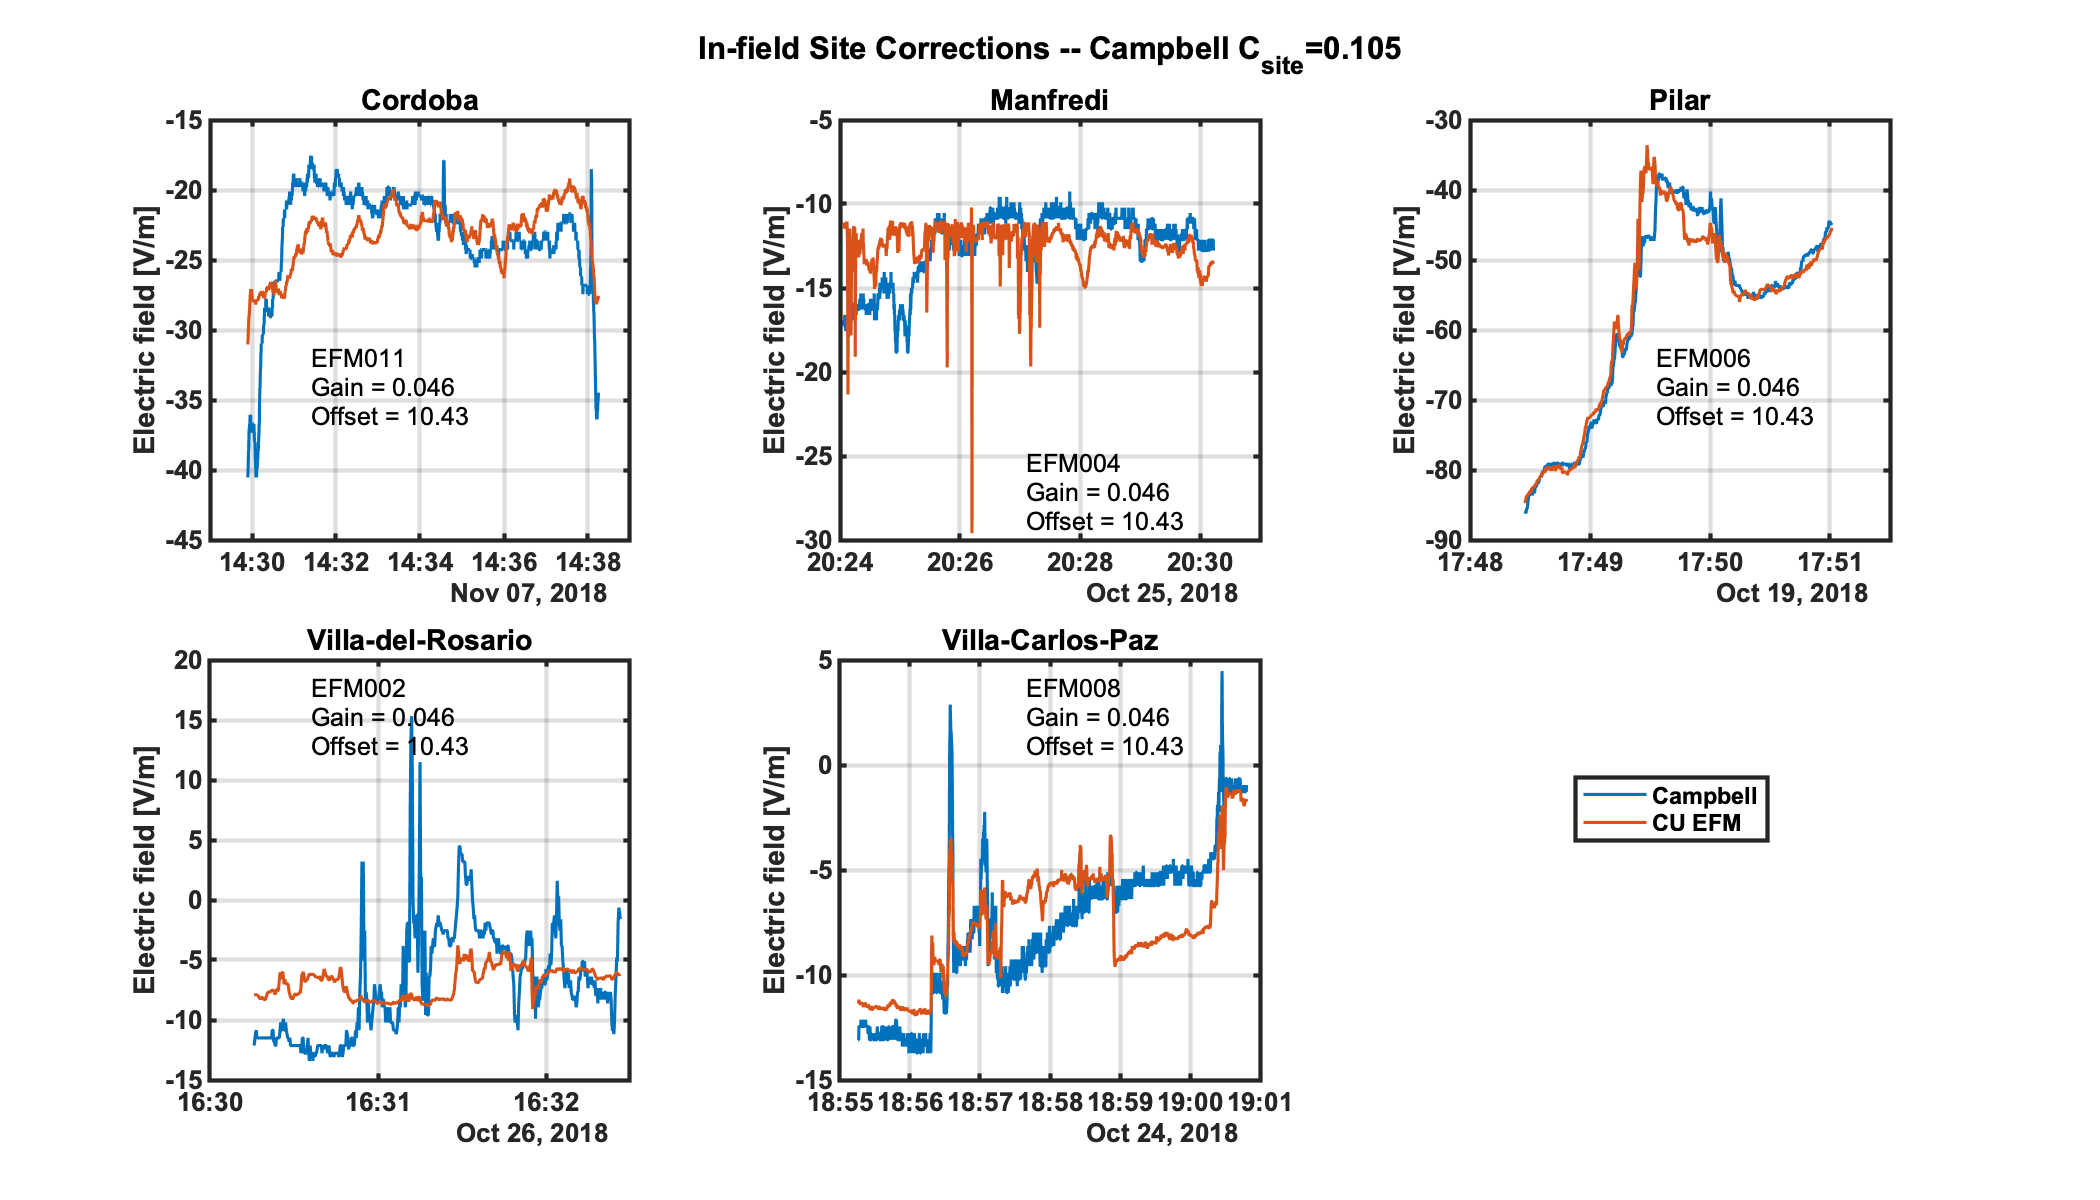
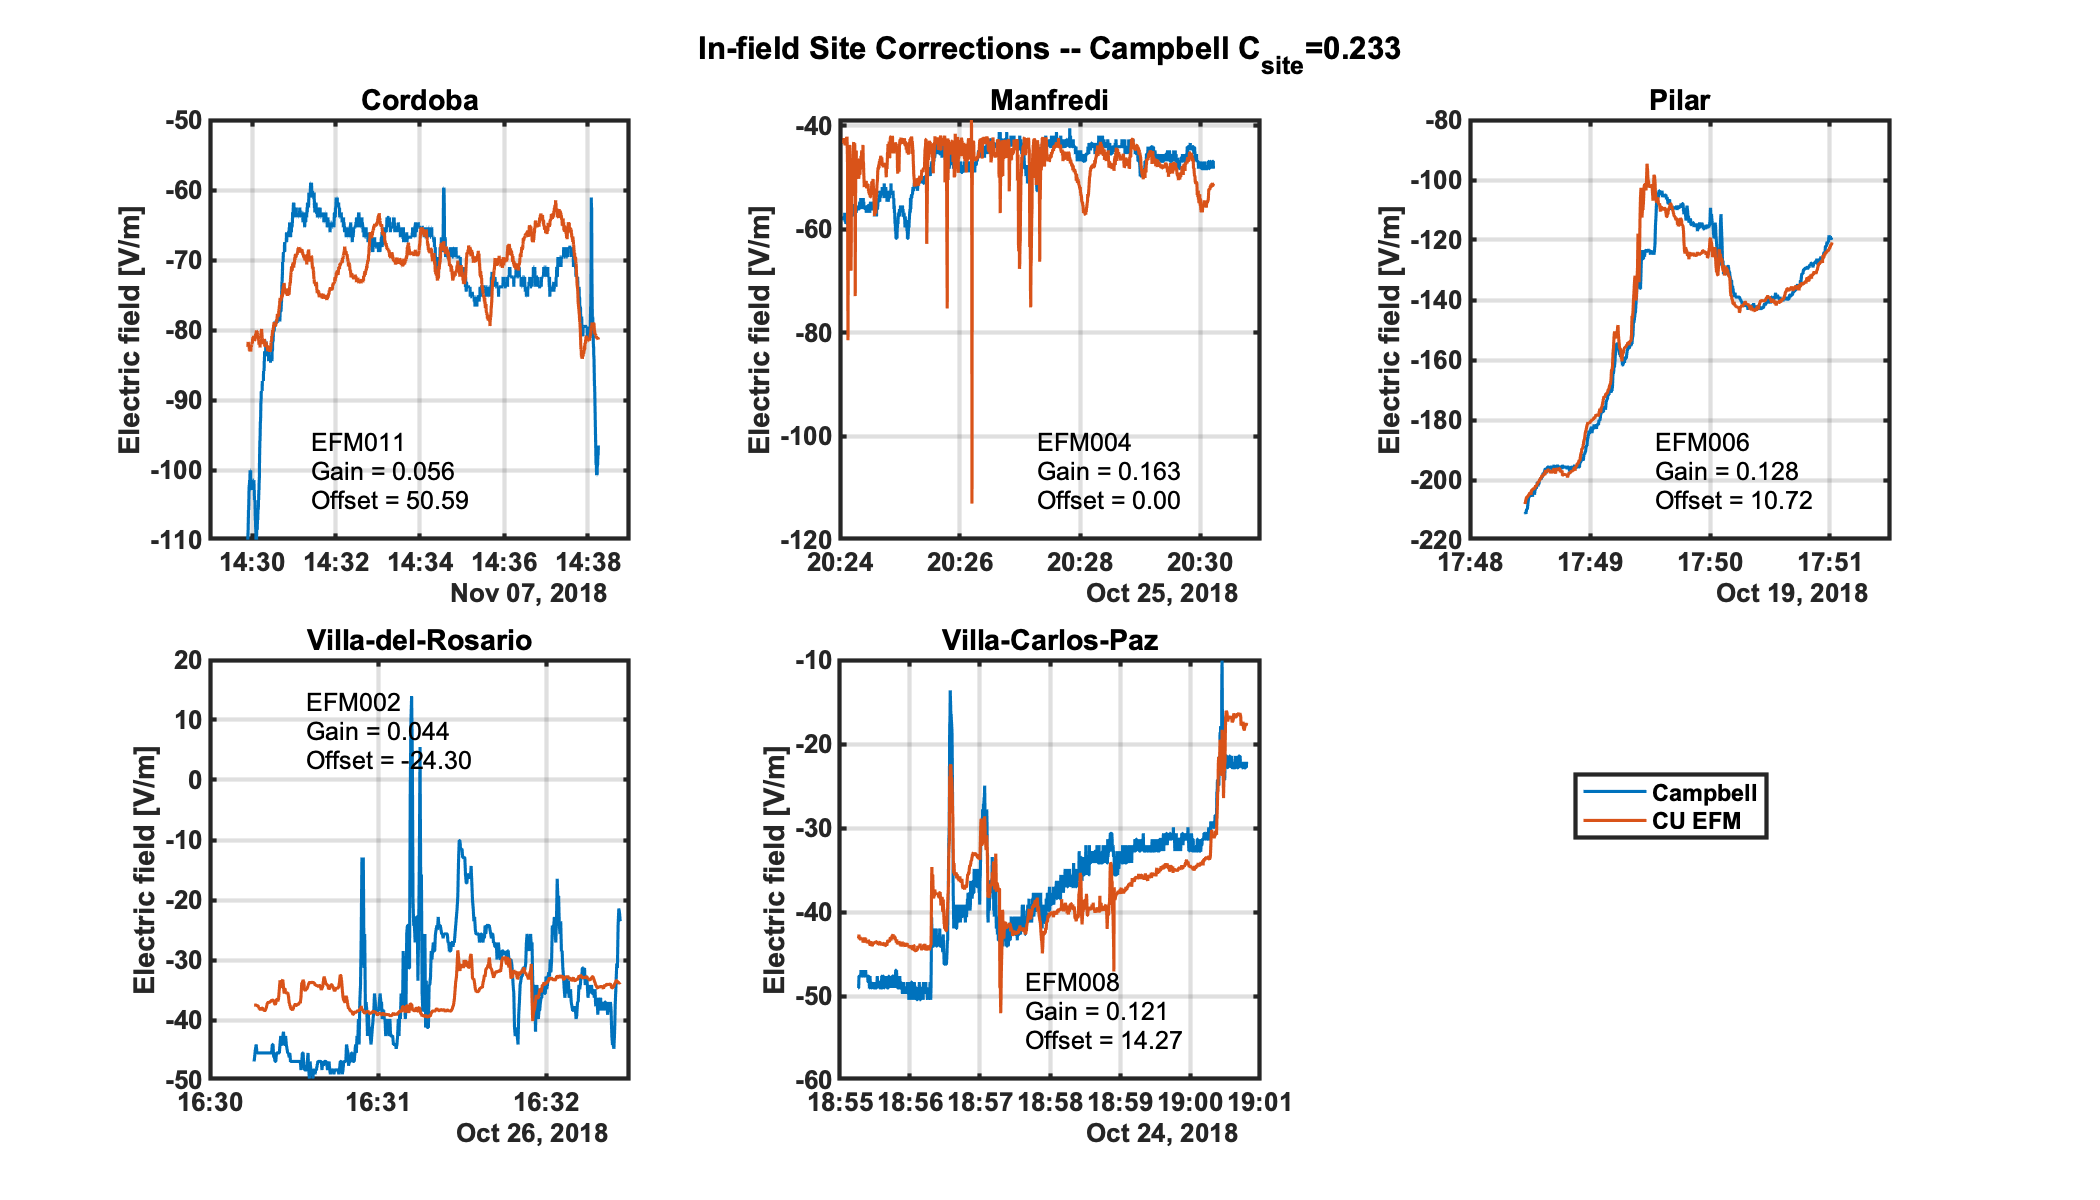
added max_error parameter based off NaNs

diff --git a/save_as_netCDF.m b/save_as_netCDF.m
@@ -1,29 +1,71 @@
 close all; clear all;
-data_dir = "/Volumes/Untitled/EFM before office move/RELAMPAGO Data/Level 1/Without Site Corrections v2";
-out_dir = "/Volumes/Untitled/EFM before office move/RELAMPAGO Data/Level 1/netCDF";
+data_dir = "/Volumes/EFM External/EFM before office move/RELAMPAGO Data/Level 1/Without Site Corrections v2";
+out_dir = "/Volumes/EFM External/EFM before office move/RELAMPAGO Data/Level 1/netCDF";
 
 sites = ["Cordoba","Manfredi","Pilar", "Villa-del-Rosario","Villa-Carlos-Paz"];
 % sites = ["Cordoba"];
 
 % Site calibrations:
+% site_gains = containers.Map;
+% site_offsets = containers.Map;
+% site_gains("Cordoba") = 0.0222;           site_offsets("Cordoba") = 25.3092;
+% site_gains("Manfredi") = 0.0427;          site_offsets("Manfredi") = 0;
+% site_gains("Pilar") = 0.0576;             site_offsets("Pilar") = 13.8439;
+% site_gains("Villa-Carlos-Paz") = 0.0458;  site_offsets("Villa-Carlos-Paz") = 10.4258;
+% site_gains("Villa-del-Rosario") = 0.0200; site_offsets("Villa-del-Rosario") = -1.9374;
+
+% Site calibrations: July 19th, 2019:
+% These site calibrations use a Campbell Csite correction of 0.233.
+%  -- Cordoba, Pilar, and Villa Carlos Paz are computed using Campbell field data
+%  -- Villa Del Rosario uses the site correction computed in Colorado
+%  (backyard test), since the VDR in-field data is from a low-activity day
+%  -- Manfredi's gain is the average of the site gains and backyard gains for
+%  Pilar and Villa Carlos Paz, since the in-field data is from a
+%  low-activity day, and lacks polarity information.
+%  -- Manfredi's offset is the mean offset from Cordoba, Pilar, VCP, and VDR.
+%  -- Cordoba is lower gain than the other sites; this is believable,
+%  though, as the EFM was on the roof of a building, and the corresponding
+%  Campbell on the ground.
 site_gains = containers.Map;
 site_offsets = containers.Map;
-site_gains("Cordoba") = 0.0222;           site_offsets("Cordoba") = 25.3092;
-site_gains("Manfredi") = 0.0427;          site_offsets("Manfredi") = 0;
-site_gains("Pilar") = 0.0576;             site_offsets("Pilar") = 13.8439;
-site_gains("Villa-Carlos-Paz") = 0.0458;  site_offsets("Villa-Carlos-Paz") = 10.4258;
-site_gains("Villa-del-Rosario") = 0.0200; site_offsets("Villa-del-Rosario") = -1.9374;
+site_gains("Cordoba") = 0.0559;           site_offsets("Cordoba") = 50.5869;
+site_gains("Manfredi") = 0.1177;          site_offsets("Manfredi") = 12.5;
+site_gains("Pilar") = 0.1277;             site_offsets("Pilar") = 10.7203;
+site_gains("Villa-Carlos-Paz") = 0.1207;  site_offsets("Villa-Carlos-Paz") = 14.2689;
+site_gains("Villa-del-Rosario") = 0.0993; site_offsets("Villa-del-Rosario") = -24.2991;
+% site_gains("Villa-del-Rosario") = 0.0446; site_offsets("Villa-del-Rosario") = -24.2991;
+% Manfredi gain: ((backyard_gains(EFMs("Villa-Carlos-Paz")) + backyard_gains(EFMs("Pilar")))*Csite + site_gains("Villa-Carlos-Paz") + site_gains("Pilar"))/4
+
+site_lats = containers.Map;
+site_lons = containers.Map;
+site_lats("Cordoba") = -31.43847455;            site_lons("Cordoba") = -64.19298165;
+site_lats("Manfredi") = -31.85712639;           site_lons("Manfredi") = -63.74865947;
+site_lats("Pilar") = -31.66715781;              site_lons("Pilar") = -63.8826809;
+site_lats("Villa-Carlos-Paz") = -31.47527066;   site_lons("Villa-Carlos-Paz") = -64.52608896;
+site_lats("Villa-del-Rosario") = -31.55880245;  site_lons("Villa-del-Rosario") = -63.5655458;
+
+site_fw = containers.Map;
+site_fw("Cordoba") = 1.2; % THIS ONE WORKS SO MUCH BETTER, IS IT ~1.3+?
+site_fw("Manfredi") = 1.2;
+site_fw("Pilar") = 1.1;
+site_fw("Villa-Carlos-Paz") = 1.2;
+site_fw("Villa-del-Rosario") = 1.2;
+
 
 start_date = datetime(2018,10,28,0,0,0);
 end_date   = datetime(2018,12,20,1,0,0);
+% start_date = datetime(2018,11,28,0,0,0);
+% end_date   = datetime(2018,12,5,0,0,0);
 
+error_hists = containers.Map();
 files_to_do = start_date +  hours(0:hours(end_date - start_date));
 
 fprintf("doing %d sites\ndoing %d hours\n",length(sites), length(files_to_do));
 for s=1:length(sites)
     site = sites(s);
     fprintf("Loading %s\n",site);
-    tmp_avg = nan(length(files_to_do),1);
+    error_hists(site) = [];
+%     tmp_avg = nan(length(files_to_do),1);
     for ft=1:length(files_to_do)
         dvec = datevec(files_to_do(ft));
         indir = fullfile(data_dir,site,sprintf('%d',dvec(1)),sprintf('%d',dvec(2)), sprintf('%d',dvec(3)));
@@ -65,8 +107,26 @@ for s=1:length(sites)
             ncwriteatt(outfile,'E_field','site_gain',site_gains(site));
             ncwriteatt(outfile,'E_field','site_offset',site_offsets(site));
             ncwriteatt(outfile,'E_field','units','V/m');
+            
+            % Put in: Geo coordinates (lat / lon)
+            ncwriteatt(outfile,'/','latitude',site_lats(site));
+            ncwriteatt(outfile,'/','longitude',site_lons(site));
+            
+            %         Firmware version?
+            ncwriteatt(outfile,'/','firmware_version',site_fw(site));
             % ncdisp(outfile)
-
+            
+            % Timing error: Sum the NaNs, and divide by 2 (since we
+            % recorrect ourselves every 30 minutes)
+            total_nans = sum(isnan(data.E_field_calib));
+            max_timing_error = total_nans/data.SAMPLE_RATE/2.0;
+            fprintf('max timing error %g seconds\n',max_timing_error);
+            ncwriteatt(outfile,'E_field','max_timing_error',max_timing_error);
+            
+%             figure;
+%             plot(isnan(data.E_field_calib));
+            
+            error_hists(site) = [error_hists(site), max_timing_error];
         end
     end
     

diff --git a/compare_site_corrections_vs_backyard_test.m b/compare_site_corrections_vs_backyard_test.m
@@ -7,22 +7,38 @@ EFMs("Pilar") = "EFM006";
 EFMs("Villa-del-Rosario") = "EFM002";
 EFMs("Villa-Carlos-Paz") = "EFM008";
 
-% Just typed in from running between 6/18 - 6/24.
-% EFM006 used absolute field values, everything else normal.
+% % Just typed in from running between 6/18 - 6/24.
+% % EFM006 used absolute field values, everything else normal.
 backyard_gains = containers.Map;
 backyard_offsets = containers.Map;
-backyard_gains("EFM002") = 0.0436; backyard_offsets("EFM002") = -0.9096;
-backyard_gains("EFM006") = 0.0407; backyard_offsets("EFM006") = 18.7037;
-backyard_gains("EFM008") = 0.0586; backyard_offsets("EFM008") = 14.7467;
-backyard_gains("EFM011") = 0.1062; backyard_offsets("EFM011") = 83.8318;
+% backyard_gains("EFM002") = 0.0436; backyard_offsets("EFM002") = -0.9096;
+% backyard_gains("EFM006") = 0.0407; backyard_offsets("EFM006") = 18.7037;
+% backyard_gains("EFM008") = 0.0586; backyard_offsets("EFM008") = 14.7467;
+% backyard_gains("EFM011") = 0.1062; backyard_offsets("EFM011") = 83.8318;
+
+% These are with Csite = 1.0: e.g., to match backyard data to the campbell
+% at the setup height, but not to map to the true electric field (dependent
+% on Campbell correction)
+backyard_gains("EFM002") = 0.4262; backyard_offsets("EFM002") = -5.7975;
+backyard_gains("EFM006") = 0.3915; backyard_offsets("EFM006") = 177.1194;
+backyard_gains("EFM008") = 0.5625; backyard_offsets("EFM008") = 142.4066;
+backyard_gains("EFM011") = 1.0117; backyard_offsets("EFM011") = 798.3978;
+Csite = 0.233;  % Taken from Austin's backyard test data, 7/18/2019
 
 site_gains = containers.Map;
 site_offsets = containers.Map;
-site_gains("Cordoba") = 0.0222;           site_offsets("Cordoba") = 25.3092;
-site_gains("Manfredi") = 0.0427;          site_offsets("Manfredi") = 0;
-site_gains("Pilar") = 0.0576;             site_offsets("Pilar") = 13.8439;
-site_gains("Villa-Carlos-Paz") = 0.0458;  site_offsets("Villa-Carlos-Paz") = 10.4258;
-site_gains("Villa-del-Rosario") = 0.0200; site_offsets("Villa-del-Rosario") = -1.9374;
+% site_gains("Cordoba") = 0.0222;           site_offsets("Cordoba") = 25.3092;
+% site_gains("Manfredi") = 0.0427;          site_offsets("Manfredi") = 0;
+% site_gains("Pilar") = 0.0576;             site_offsets("Pilar") = 13.8439;
+% site_gains("Villa-Carlos-Paz") = 0.0458;  site_offsets("Villa-Carlos-Paz") = 10.4258;
+% site_gains("Villa-del-Rosario") = 0.0200; site_offsets("Villa-del-Rosario") = -1.9374;
+
+% These are computed using Argentina field calibrations, with Csite=0.233
+site_gains("Cordoba") = 0.0559;           site_offsets("Cordoba") = 50.5869;
+site_gains("Manfredi") = 0.1629;          site_offsets("Manfredi") = 0;
+site_gains("Pilar") = 0.1277;             site_offsets("Pilar") = 10.7203;
+site_gains("Villa-Carlos-Paz") = 0.1207;  site_offsets("Villa-Carlos-Paz") = 14.2689;
+site_gains("Villa-del-Rosario") = 0.0446; site_offsets("Villa-del-Rosario") = -24.2991;
 
 rel_err = 0.2;
 
@@ -65,7 +81,7 @@ for s=1:length(sites)
   plot(axs(1),s,gain,'ko');
 
    if backyard_gains.isKey(EFM)
-       gain = backyard_gains(EFM);
+       gain = backyard_gains(EFM)*Csite;
        gup = gain*(1 + rel_err);
        gdn = gain*(1 - rel_err);
 
@@ -103,7 +119,7 @@ for s=1:length(sites)
    hold on;
    h1=fill(axs(2),[s-w,s-w, s+w, s+w],[odn,oup,oup,odn],'red','FaceAlpha',0.1,'LineWidth',1);
    if backyard_offsets.isKey(EFM)
-       offset = backyard_offsets(EFM);
+       offset = backyard_offsets(EFM)*Csite;
        oup = offset*(1 + rel_err);
        odn = offset*(1 - rel_err);
 
@@ -119,7 +135,7 @@ for s=1:length(sites)
    xticklabels(site_labels);
    yticks(axs(2),'auto');
    grid on;
-   ylabel('Offset (V/m)');
+   ylabel('Offset (V/m)');  
    yticklabels(axs(2),'auto');
 
 end
@@ -128,7 +144,7 @@ legend(axs(2),[h1,h2],'Argentina','Colorado');
 
 linkaxes(axs,'x');
 
-sgtitle("Site Correction Comparison, June 2019")
-saveas(fig,"Site correction comparison.png");
+sgtitle("Site Correction Comparison, July 2019")
+saveas(fig,"Site correction comparison July 2019.png");
 
 

diff --git a/compute_site_corrections.m b/compute_site_corrections.m
@@ -4,13 +4,15 @@ ADC_SAMPLING_FREQ = 1000;
 EFM_SAMPLE_RATE = 100;      % Hz, what we're decimating to
 CAMPBELL_SAMPLE_RATE = 4;   % Hz
 
-raw_data_dir = "/Volumes/Untitled/EFM before office move/RELAMPAGO Data/Campaign Data";
-campbell_data_dir = "/Volumes/Untitled/EFM before office move/RELAMPAGO Data/Campaign Data/Campbell Field Deployment";
-cal_dir = "/Volumes/Untitled/EFM before office move/Field Mill Post-Campaign Calibration/EFM calibration maps 6-17-2019";
-fig_dir = "/Volumes/Untitled/EFM before office move/EFM Level 1 Processing/Site Corrections";
+raw_data_dir = "/Volumes/EFM External/EFM before office move/RELAMPAGO Data/Campaign Data";
+campbell_data_dir = "/Volumes/EFM External/EFM before office move/RELAMPAGO Data/Campaign Data/Campbell Field Deployment";
+cal_dir = "/Volumes/EFM External/EFM before office move/Field Mill Post-Campaign Calibration/EFM calibration maps 6-17-2019";
+fig_dir = "/Volumes/EFM External/EFM before office move/EFM Level 1 Processing/Site Corrections";
 
 Mplate = 89.79;  % Campbell's mill-specific collector area correction.
-Csite =  0.105;   % Campbell's reported site correction. Probably valid, but will vary with setup height
+% Csite =  0.105;   % Campbell's reported site correction. Probably valid, but will vary with setup height
+Csite = 0.233;  % Taken from Austin's backyard test data, 7/18/2019
+C_offset = - 20; % ~ Taken from backyard tests. Probably drifts...
 
 EFMs = containers.Map;
 EFMs("Cordoba") = "EFM011";
@@ -20,7 +22,7 @@ EFMs("Villa-del-Rosario") = "EFM002";
 EFMs("Villa-Carlos-Paz") = "EFM008";
 
 lags = containers.Map;
-lags("Cordoba") = 0;
+lags("Cordoba") = 20;
 lags("Manfredi") = 1;
 lags("Pilar") = -2;
 lags("Villa-del-Rosario") = 0;
@@ -34,7 +36,7 @@ sites = ["Cordoba","Manfredi","Pilar", "Villa-del-Rosario","Villa-Carlos-Paz"];
 
 argentina_time_offset = hours(3); 
 phase_offset = 3;
-omit_polarity = true;
+% omit_polarity = true;
 
 gains = containers.Map;
 offsets = containers.Map;
@@ -59,7 +61,7 @@ for s=1:length(sites)
     timec = timec + argentina_time_offset;
     EfieldC = str2double(Cfile.E_field);
 
-    EfieldC = EfieldC*Csite*Mplate;  % Apply site correction to Campbell
+    EfieldC = EfieldC*Csite*Mplate + C_offset;  % Apply site correction to Campbell
     % Calibration map
     cal_file = fullfile(cal_dir,sprintf("%s_map_2019-06-17.mat",EFM));  
     disp(cal_file);
@@ -124,6 +126,19 @@ for s=1:length(sites)
     t_down = (0:(length(E_down)-1))/CAMPBELL_SAMPLE_RATE;
     tv_down = timeEFM(1) + seconds(t_down) - seconds(lag);
 
+    
+    if site_name=="Villa-Carlos-Paz"
+       % A band-aid: The VCP data has a strange DC offset halfway through.
+       % Possibly charge deposition on the sense plate plastic? Either way,
+       % let's see what the correction is like if we remove that offset
+       % manually / by eye.
+       
+       t1 = datetime(2018,10,24,18,57,17);
+       t2 = datetime(2018,10,24,18,58,55);
+       inds = find((tv_down >=t1) & (tv_down < t2));
+       E_down(inds)  = E_down(inds) - 100;
+       
+    end
     % ----- Least-squares fit for gain and offset -----
 
 
@@ -136,11 +151,11 @@ for s=1:length(sites)
     ib = ib(inan);
     
     if omit_polarity
-        A = abs(E_down(ia));
+        A = [abs(E_down(ia))];%, ones(length(ia),1)];
         B = abs(EfieldC(ib));
         fit = A\B;
         gain = fit(1);
-        offset = 0;
+        offset =  0; %fit(2)*sign(mean(EfieldC)); %0;
     else
         A = [E_down(ia), ones(length(ia),1)];
         B = EfieldC(ib);
@@ -240,7 +255,7 @@ end
         grid(axs(s),'on');
         yticks(axs(s),'auto');
         yticklabels(axs(s),'auto');
-        TextLocation(axs(s),sprintf('%s\nGain = %2.3f\nOffset = %2.2f',EFM,gain,offset),'Location','best');
+        TextLocation(axs(s),sprintf('%s\nGain = %2.3f\nOffset = %2.2f',EFM,gains(site_name),offsets(site_name)),'Location','best');
         
     end
 

diff --git a/get_site_locations.m b/get_site_locations.m
@@ -1,0 +1,11 @@
+% Load lat/lon from site data CSV files
+
+sites = ["Cordoba","Manfredi","Pilar", "Villa-del-Rosario","Villa-Carlos-Paz"];
+
+lats = containers.Map;
+lons = containers.Map;
+lats("Cordoba") = 314384383; lons("Cordoba")=641929883;
+lats("Manfredi") = 318571166; lons("Manfredi")=	637486566;
+lats("Pilar") = 316672116;	lons("Pilar") = 638826833;
+lats("Villa-Carlos-Paz") = 314752050; lons("Villa-Carlos-Paz")=	645262583;
+lats("Villa-del-Rosario") = 315588116; lons("Villa-del-Rosario")	635655533
